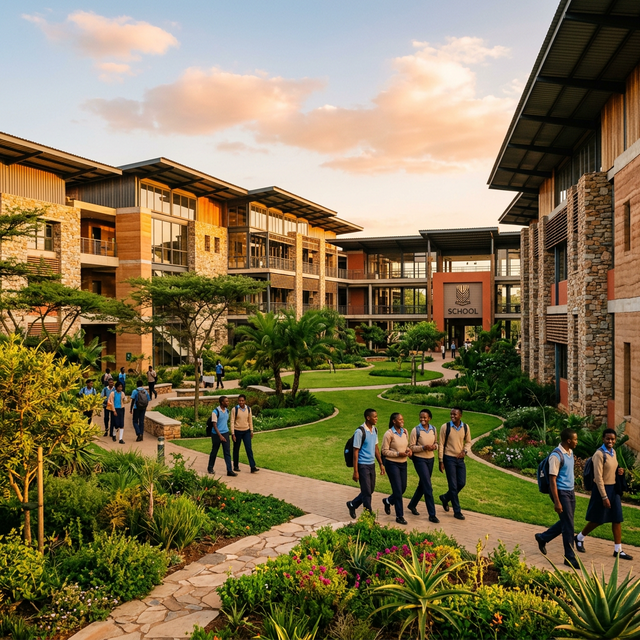
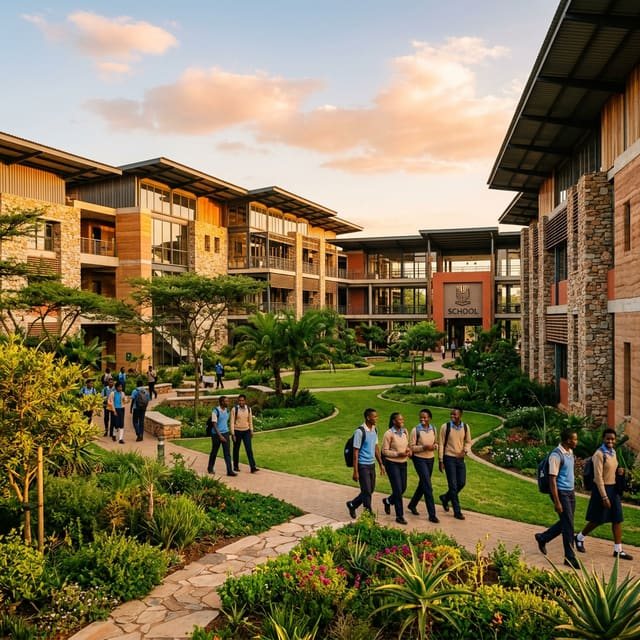
perf: fix LCP on landing/login pages + correction du scroll au clic sur les liens
- Login/Landing : images de fond du login recompressees en JPEG reel
  (etaient en fait des PNG non compresses de ~800Ko sous extension .jpg,
  ~90% de reduction) + prechargement progressif (image affichee + suivante
  seulement, au lieu des 4 des le montage).
- Landing : gsap/ScrollTrigger (~114Ko) charge dynamiquement apres le
  montage au lieu d'un import statique qui bloquait le rendu initial du
  hero ; le titre et le sous-titre (element LCP) ne sont plus animes en
  opacite pour rester visibles des le premier rendu.
- index.html : chargement de la police Google Fonts rendu non bloquant
  (preload + swap) au lieu d'un <link rel="stylesheet"> synchrone
  cross-origin qui retardait le premier rendu de tout texte.
- Nouveau ScrollToTop (src/components/ScrollToTop.tsx) : remonte la page
  en haut a chaque changement de route, corrige les liens de la landing
  page (ex: "Voir plus" de la section App Mobile) qui atterrissaient au
  milieu de la page suivante au lieu du haut.
- Login.tsx : retrait d'un console.log qui affichait la liste des ecoles
  (deja publique via /api/schools, mais bruit inutile en prod).

diff --git a/src/pages/LandingPage.tsx b/src/pages/LandingPage.tsx
@@ -5,8 +5,6 @@
 import React, { useEffect, useRef, useState } from 'react';
 import { useNavigate, useParams } from 'react-router-dom';
 import { useStore } from '../store/useStore';
-import gsap from 'gsap';
-import { ScrollTrigger } from 'gsap/ScrollTrigger';
 import {
   CreditCard,
   BookOpen,
@@ -33,8 +31,6 @@ import { Footer } from '../components/Footer';
 import { BACKEND_URL } from '../config';
 import { MorphBlob } from '../components/MorphBlob';
 import { AnimatedCounter } from '../components/AnimatedCounter';
-
-gsap.registerPlugin(ScrollTrigger);
 
 // ── Texts (FR / EN) — copywriting conservé ──────────────────
 const TEXTS = {
@@ -322,6 +318,10 @@ export const LandingPage: React.FC = () => {
   }, []);
 
   // ── GSAP Master Timeline ──
+  // gsap + ScrollTrigger (~114 Ko) sont chargés dynamiquement, après le montage,
+  // plutôt qu'importés statiquement : ces animations d'entrée/parallax ne sont
+  // jamais nécessaires au premier rendu (le hero doit s'afficher immédiatement,
+  // pas attendre cette librairie) et sont de toute façon désactivées sur mobile.
   useEffect(() => {
     const isMobileOrLowEnd = typeof window !== 'undefined' && (
       window.innerWidth < 768 ||
@@ -330,28 +330,39 @@ export const LandingPage: React.FC = () => {
 
     if (isMobileOrLowEnd) return;
 
-    const ctx = gsap.context(() => {
-      // HERO entrance animation
-      const heroTl = gsap.timeline({ defaults: { ease: 'power3.out' } });
-      heroTl
-        .from(heroTitleRef.current, { opacity: 0, y: 55, duration: 0.8 }, 0.1)
-        .from(heroSubRef.current, { opacity: 0, y: 35, duration: 0.8 }, 0.3)
-        .from(heroCTARef.current, { opacity: 0, y: 20, duration: 0.8 }, 0.5)
-        .from(heroProofRef.current, { opacity: 0, y: 15, duration: 0.8 }, 0.6)
-        .from(heroFloatPhoneRef.current, { opacity: 0, x: 30, duration: 0.8 }, 0.4);
+    let cancelled = false;
+    let ctx: { revert: () => void } | undefined;
 
-      // HERO Parallax
-      if (heroRef.current && heroFloatPhoneRef.current) {
-        gsap.to(heroFloatPhoneRef.current, {
-          y: -40,
-          ease: 'none',
-          scrollTrigger: { trigger: heroRef.current, start: 'top top', end: 'bottom top', scrub: 1 },
-        });
-      }
+    Promise.all([import('gsap'), import('gsap/ScrollTrigger')]).then(([gsapModule, { ScrollTrigger }]) => {
+      if (cancelled) return;
+      const gsap = gsapModule.default;
+      gsap.registerPlugin(ScrollTrigger);
+
+      ctx = gsap.context(() => {
+        // HERO entrance animation — le titre et le sous-titre (élément LCP) ne sont
+        // JAMAIS animés en opacité : ils doivent rester visibles dès le premier
+        // rendu, sans dépendre du chargement (différé) de gsap ni provoquer de
+        // flash "visible → invisible → fondu" une fois la librairie chargée.
+        const heroTl = gsap.timeline({ defaults: { ease: 'power3.out' } });
+        heroTl
+          .from(heroCTARef.current, { opacity: 0, y: 20, duration: 0.8 }, 0.5)
+          .from(heroProofRef.current, { opacity: 0, y: 15, duration: 0.8 }, 0.6)
+          .from(heroFloatPhoneRef.current, { opacity: 0, x: 30, duration: 0.8 }, 0.4);
+
+        // HERO Parallax
+        if (heroRef.current && heroFloatPhoneRef.current) {
+          gsap.to(heroFloatPhoneRef.current, {
+            y: -40,
+            ease: 'none',
+            scrollTrigger: { trigger: heroRef.current, start: 'top top', end: 'bottom top', scrub: 1 },
+          });
+        }
+      });
     });
 
     return () => {
-      ctx.revert();
+      cancelled = true;
+      ctx?.revert();
     };
   }, []);
 

diff --git a/src/components/Login.tsx b/src/components/Login.tsx
@@ -35,22 +35,33 @@ const SchoolLogo: React.FC<{ size?: string; logoUrl?: string | null }> = ({ size
 
 const BackgroundSlideshow: React.FC = () => {
     const [currentIndex, setCurrentIndex] = useState(0);
+    // Seules l'image affichée et la suivante sont chargées : évite de télécharger
+    // les 4 photos de fond dès le montage (gros contributeur du LCP de cette page,
+    // avant même la compression des images) — chaque transition précharge l'image
+    // d'après avec ~5s d'avance.
+    const [loadedIndices, setLoadedIndices] = useState<Set<number>>(() => new Set([0, 1 % BG_IMAGES.length]));
+
     const goToNext = useCallback(() => {
-      setCurrentIndex((prev) => (prev + 1) % BG_IMAGES.length);
+      setCurrentIndex((prev) => {
+        const next = (prev + 1) % BG_IMAGES.length;
+        const upcoming = (next + 1) % BG_IMAGES.length;
+        setLoadedIndices((s) => (s.has(upcoming) ? s : new Set(s).add(upcoming)));
+        return next;
+      });
     }, []);
-  
+
     useEffect(() => {
       const timer = setInterval(goToNext, SLIDE_DURATION);
       return () => clearInterval(timer);
     }, [goToNext]);
-  
+
     return (
       <div className="fixed inset-0 z-0 overflow-hidden">
         {BG_IMAGES.map((img, i) => (
           <div
             key={i}
             className={`absolute inset-0 bg-cover bg-center transition-opacity duration-1000 ${i === currentIndex ? 'opacity-100' : 'opacity-0'}`}
-            style={{ backgroundImage: `url(${img})` }}
+            style={loadedIndices.has(i) ? { backgroundImage: `url(${img})` } : undefined}
           />
         ))}
         <div className="absolute inset-0 z-[1] bg-slate-900/40 backdrop-blur-[2px]" />
@@ -240,7 +251,6 @@ export const Login: React.FC = () => {
 
   useEffect(() => {
     // Récupérer la liste des écoles
-    console.log("Fetching schools from:", `${API_BASE_URL}/schools`);
     setFetchError(null);
     fetch(`${API_BASE_URL}/schools`)
       .then(res => {
@@ -250,7 +260,6 @@ export const Login: React.FC = () => {
          return res.json();
       })
       .then(data => {
-         console.log("Schools received:", data);
          if (Array.isArray(data)) {
            setSchools(data);
          } else {

diff --git a/index.html b/index.html
@@ -65,7 +65,18 @@
 
     <link rel="preconnect" href="https://fonts.googleapis.com" />
     <link rel="preconnect" href="https://fonts.gstatic.com" crossorigin />
-    <link href="https://fonts.googleapis.com/css2?family=Poppins:wght@300;400;500;600;700;800;900&display=swap" rel="stylesheet" />
+    <!-- Chargement non bloquant : le texte s'affiche immédiatement avec la police de
+         repli, puis bascule sur Poppins dès qu'elle est prête (au lieu d'attendre
+         cet aller-retour cross-origin avant le premier rendu — gain direct sur LCP). -->
+    <link
+      rel="preload"
+      as="style"
+      href="https://fonts.googleapis.com/css2?family=Poppins:wght@300;400;500;600;700;800;900&display=swap"
+      onload="this.onload=null;this.rel='stylesheet'"
+    />
+    <noscript>
+      <link rel="stylesheet" href="https://fonts.googleapis.com/css2?family=Poppins:wght@300;400;500;600;700;800;900&display=swap" />
+    </noscript>
   </head>
   <body>
     <div id="root">

diff --git a/src/App.tsx b/src/App.tsx
@@ -6,6 +6,7 @@ import { useStore } from './store/useStore';
 import { webPushService } from './services/webPushService';
 import { AppPage } from './types';
 import { Routes, Route, Navigate, useNavigate, useLocation, useParams } from 'react-router-dom';
+import { ScrollToTop } from './components/ScrollToTop';
 
 import { Capacitor } from '@capacitor/core';
 
@@ -727,6 +728,7 @@ export function App() {
 
   return (
     <>
+      <ScrollToTop />
       <Routes>
         {/* Prefixed routes */}
         <Route path="/:lang/confidentialite" element={<Suspense fallback={<LoadingSpinner />}><Confidentialite /></Suspense>} />

diff --git a/src/components/ScrollToTop.tsx b/src/components/ScrollToTop.tsx
@@ -1,0 +1,17 @@
+import { useEffect } from 'react';
+import { useLocation } from 'react-router-dom';
+
+// Remonte la page en haut à chaque changement de route — sans ça, une
+// navigation depuis un lien en bas de page (ex: "Voir plus") atterrit sur
+// la nouvelle page à la même position de scroll que la précédente.
+export const ScrollToTop: React.FC = () => {
+    const { pathname } = useLocation();
+
+    useEffect(() => {
+        window.scrollTo(0, 0);
+    }, [pathname]);
+
+    return null;
+};
+
+export default ScrollToTop;
